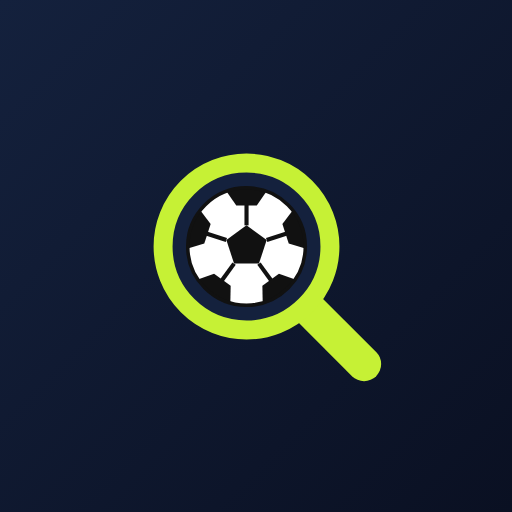
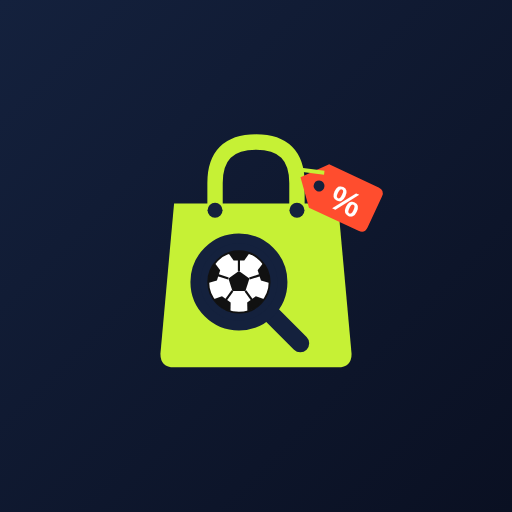
feat: ícone da sacola de ofertas com lupa e etiqueta "%"
Novo ícone escolhido (sacola C): sacola verde-limão com a lupa e a bola
de futebol dentro e uma etiqueta vermelha de desconto na alça, sobre
fundo azul-marinho.

- Ícone adaptativo e monocromático (Android 13+) atualizados
- Ícone de notificação passa a ser a sacola com a lente vazada
- docs/icon.svg e docs/icon-512.png atualizados; README descreve o ícone

Claude-Session: https://claude.ai/code/session_01NMzkBJSztPN4AKaURw58QV

Changed region(s): [[0.2812, 0.25, 0.75, 0.75]]

diff --git a/README.md b/README.md
@@ -62,7 +62,7 @@ app/src/main/java/com/trackmyboot/app/
 
 ## Ícone
 
-O ícone foi criado para o app: uma **lupa verde-limão com uma bola de futebol dentro**, que representa buscar e comparar ofertas, sobre fundo azul-marinho. Arquivos:
+O ícone foi criado para o app: uma **sacola de ofertas** verde-limão com uma **lupa e uma bola de futebol** dentro, que representa buscar e comparar ofertas, e uma etiqueta vermelha de **“%”** pendurada na alça. O fundo é azul-marinho. Arquivos:
 
 - `res/drawable/ic_launcher_foreground.xml`, `ic_launcher_background.xml` e `ic_launcher_monochrome.xml` formam o ícone adaptativo e o ícone temático do Android 13+
 - `res/drawable/ic_notification.xml` é o ícone das notificações (a lupa)
